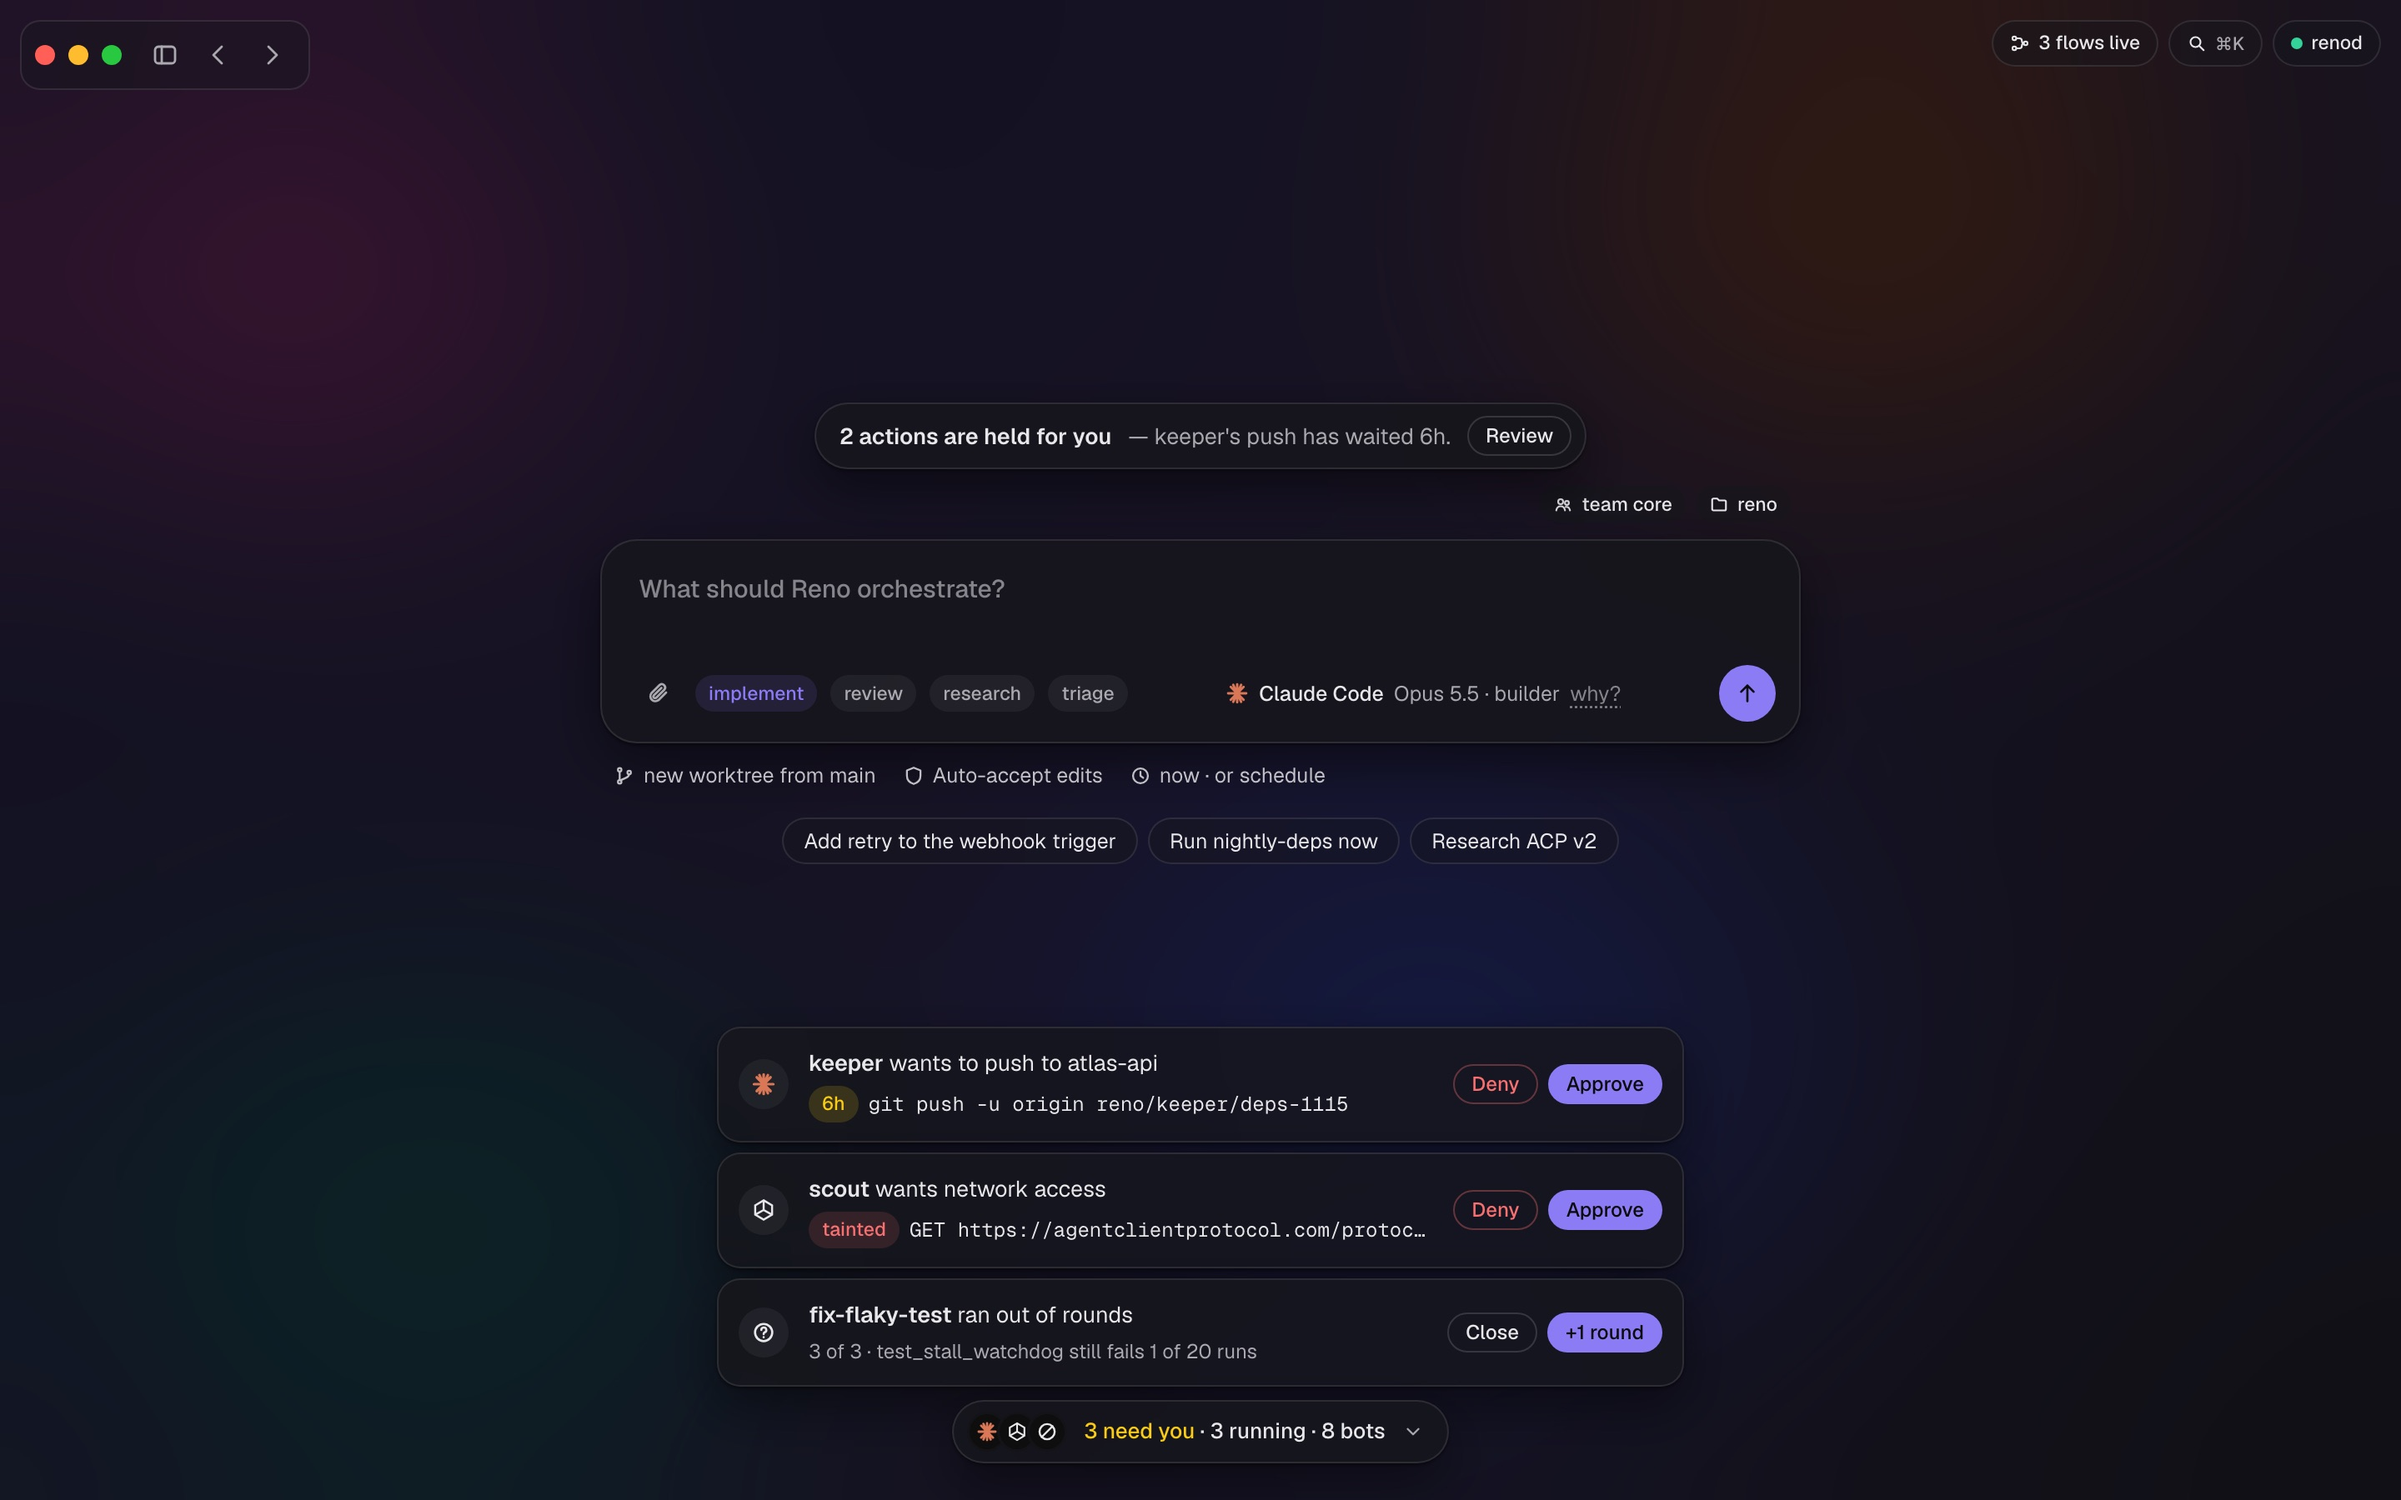
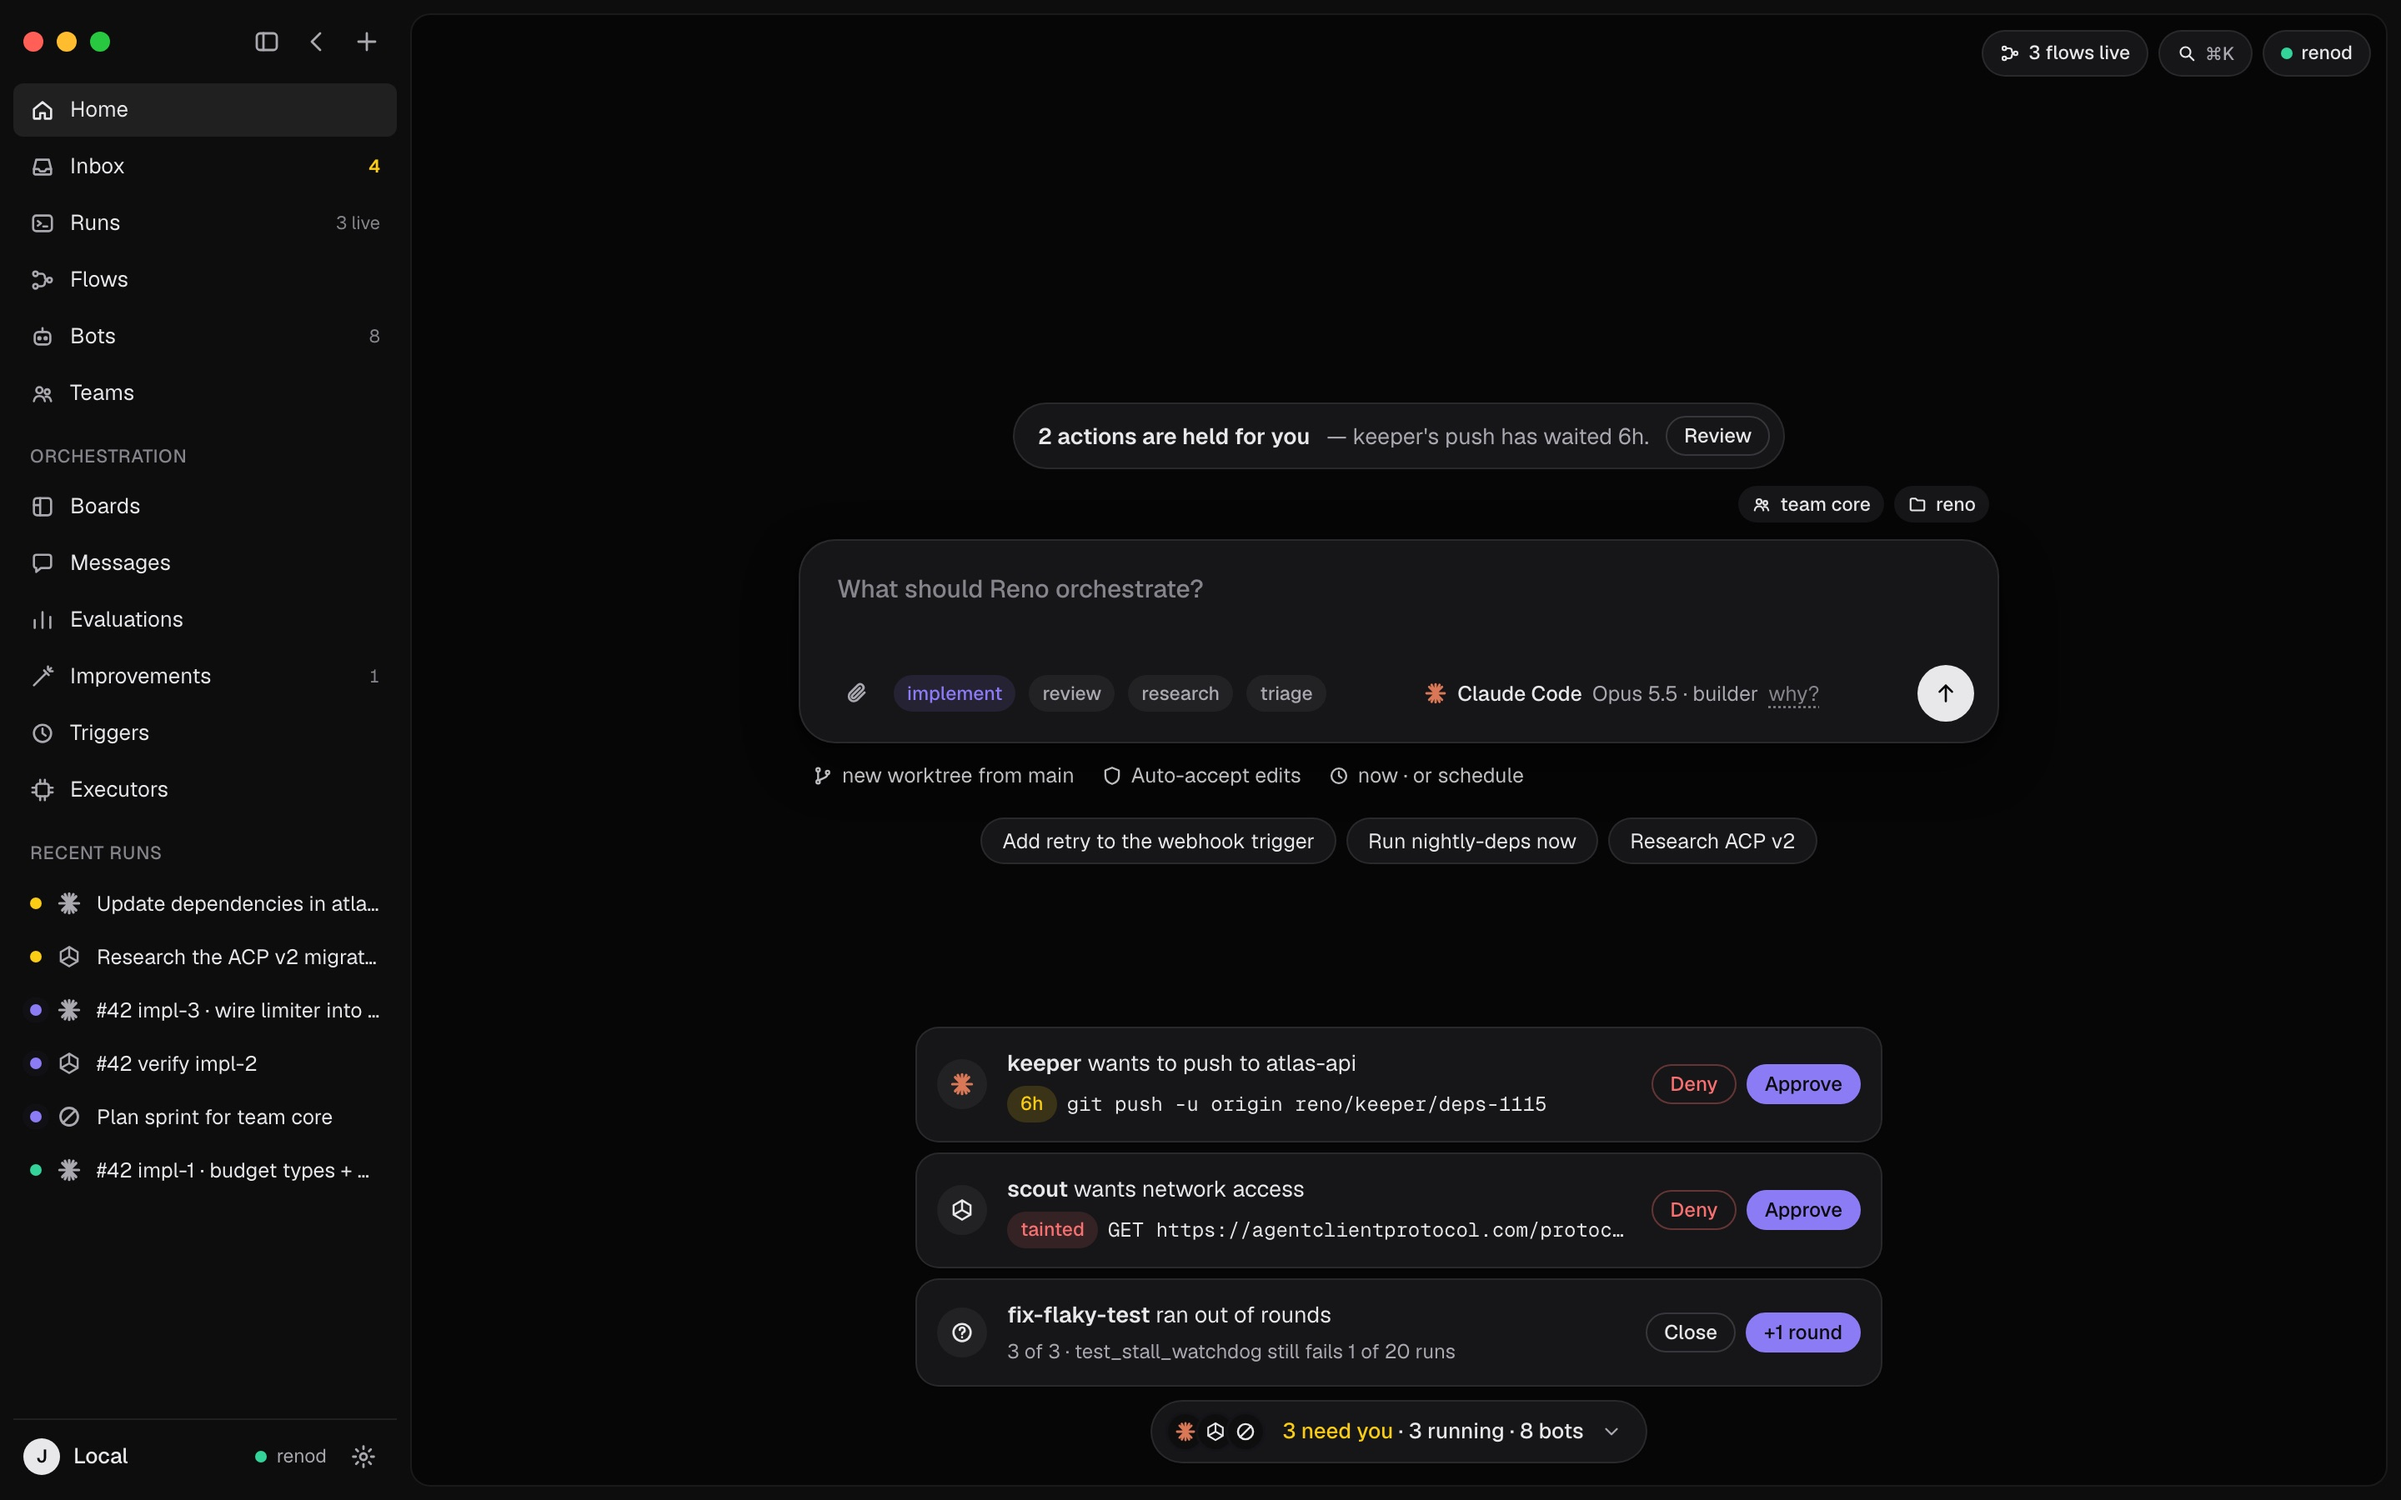
Show the two-tone UI in the README
The window and sidebar sit on one solid tone and pages on another, with
no transparency, so the hero and every screenshot are re-rendered.

diff --git a/README.md b/README.md
@@ -84,8 +84,7 @@ There is nothing to install yet.
 
 ## Requirements
 
-- macOS on Apple silicon. Linux and Windows are planned later, with a frosted-glass look in
-  place of macOS vibrancy.
+- macOS on Apple silicon. Linux and Windows are planned later, with the same look.
 - At least one harness CLI installed and signed in.
 
 ## Privacy
